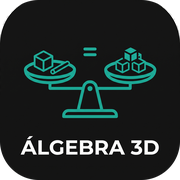
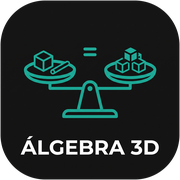
Mobile expand views, larger touch targets, link preview tags
- Expand buttons (mobile) for formula+examples, the 3D canvas, and the
  step card, with a floating Close button at the bottom center.
- Open Graph / Twitter tags and a 1200x630 preview image.
- Logo recut so its corners have no white fringe.

Changed region(s): [[0.0, 0.1389, 1.0, 1.0], [0.0278, 0.0, 0.9722, 0.1389]]

diff --git a/src/components/App.tsx b/src/components/App.tsx
@@ -34,6 +34,17 @@ const EXAMPLES: (Example & { label: string })[] = [
   { label: 'y = x²; y = 2 − x²; y = x', q: 'y = x^2; y = 2 - x^2; y = x', level: 'System' },
 ];
 
+/** Mobile only: one section takes the whole screen. */
+type Expanded = 'input' | 'stage' | 'steps' | null;
+
+function ExpandIcon() {
+  return (
+    <svg viewBox="0 0 24 24" width="16" height="16" aria-hidden="true" fill="none" stroke="currentColor" stroke-width="2.2" stroke-linecap="round" stroke-linejoin="round">
+      <path d="M15 3h6v6M9 21H3v-6M21 3l-7 7M3 21l7-7" />
+    </svg>
+  );
+}
+
 function initialQuery(): string {
   try {
     const q = new URLSearchParams(location.search).get('q');
@@ -56,6 +67,11 @@ export default function App() {
   const [favs, setFavs] = useState<Example[]>(loadFavorites);
   const [sideOpen, setSideOpen] = useState(false);
   const [guideOpen, setGuideOpen] = useState(false);
+  const [expanded, setExpanded] = useState<Expanded>(null);
+  const expand = (x: Expanded) => {
+    setSideOpen(false);
+    setExpanded(x);
+  };
   const flipFav = (ex: Example) =>
     setFavs((f) => {
       const next = toggleFav(f, ex);
@@ -105,6 +121,7 @@ export default function App() {
     setQuery(q);
     setStepIdx(0);
     setPlaying(false);
+    setExpanded((x) => (x === 'input' ? null : x));
     try {
       const url = new URL(location.href);
       url.searchParams.set('q', q);
@@ -145,8 +162,11 @@ export default function App() {
   const cam = (name: CameraPreset) => setPreset((p) => ({ name, n: p.n + 1 }));
 
   return (
-    <div class="app">
+    <div class={`app${expanded ? ` x-${expanded}` : ''}`}>
       <header class="top">
+        <button type="button" class="expand-btn top-expand" onClick={() => expand('input')} title={t.expandInput} aria-label={t.expandInput}>
+          <ExpandIcon />
+        </button>
         <div class="brand">
           <span class="logo">∑</span>
           <div>
@@ -223,6 +243,9 @@ export default function App() {
             <button title={t.sideTitle} onClick={() => cam('side')}>{t.side}</button>
             <button title={t.spin} class={autoRotate ? 'on' : ''} onClick={() => setAutoRotate((a) => !a)}>⟳</button>
             <button title={t.helpTitle} class={help ? 'on' : ''} onClick={() => setHelp((h) => !h)}>?</button>
+            <button class="expand-btn" onClick={() => expand('stage')} title={t.expandStage} aria-label={t.expandStage}>
+              <ExpandIcon />
+            </button>
           </div>
         </div>
 
@@ -266,6 +289,9 @@ export default function App() {
                 <div class="progress">
                   <div class="count">
                     {t.step} {stepIdx + 1} / {steps.length}
+                    <button class="expand-btn steps-expand" onClick={() => expand('steps')} title={t.expandSteps} aria-label={t.expandSteps}>
+                      <ExpandIcon />
+                    </button>
                   </div>
                   <div class="dots">
                     {steps.map((s, i) => (
@@ -305,6 +331,11 @@ export default function App() {
         )}
       </main>
       </div>
+      {expanded && (
+        <button type="button" class="close-expanded" onClick={() => setExpanded(null)}>
+          ✕ {t.closeExpanded}
+        </button>
+      )}
       {guideOpen && (
         <HelpModal
           lang={lang}

diff --git a/src/styles/global.css b/src/styles/global.css
@@ -322,3 +322,39 @@ kbd {
   .modal-backdrop { padding: 8px; }
   .modal { max-height: calc(100dvh - 16px); border-radius: 14px; }
 }
+
+/* ---------- mobile: expand one section to full screen ---------- */
+.expand-btn, .close-expanded { display: none; }
+@media (max-width: 720px) {
+  .top { position: relative; }
+  .expand-btn {
+    display: grid; place-items: center; padding: 0; width: 44px; height: 40px; border-radius: 12px;
+    border: 1px solid rgba(56, 189, 248, 0.55); background: var(--panel); color: var(--accent);
+  }
+  .expand-btn svg { width: 20px; height: 20px; }
+  .expand-btn:active { background: #0c4a6e; }
+  .top-expand { position: absolute; top: 10px; right: 16px; }
+  .count { display: flex; align-items: center; justify-content: center; gap: 10px; }
+  .close-expanded {
+    display: block; position: fixed; z-index: 90; left: 50%; bottom: calc(16px + env(safe-area-inset-bottom));
+    transform: translateX(-50%); padding: 12px 22px; border-radius: 999px; border: 0; font-weight: 700; font-size: 15px;
+    background: linear-gradient(135deg, #0ea5e9, #6366f1); color: white; box-shadow: 0 10px 30px rgba(0, 0, 0, 0.55);
+  }
+  .app[class*=' x-'] .expand-btn, .app[class*=' x-'] .side-toggle { display: none; }
+
+  /* Formula + examples: header on top, the examples list fills the rest. */
+  .x-input .stage-wrap { display: none; }
+  .x-input .side { position: static; transform: none; width: 100%; box-shadow: none; border-right: 0; padding-bottom: 76px; }
+
+  /* 3D canvas: nothing but the scene and its camera buttons. */
+  .x-stage .top, .x-stage .card { display: none; }
+
+  /* Steps: the card covers the whole screen. */
+  .x-steps .top, .x-steps .hud-top, .x-steps .legend, .x-steps .help { display: none; }
+  .x-steps .card {
+    inset: 0; transform: none; width: 100%; max-height: none; border-radius: 0; border: 0;
+    background: var(--panel-solid); padding: 16px 16px 84px;
+  }
+  .x-steps .card h2 { font-size: 21px; }
+  .x-steps .card p { font-size: 16px; }
+}

diff --git a/src/lib/i18n.ts b/src/lib/i18n.ts
@@ -91,6 +91,10 @@ const en = {
   mine: 'Mine',
   showExamples: 'Examples',
   helpGuide: 'Help',
+  expandInput: 'Expand formula and examples',
+  expandStage: 'Expand 3D view',
+  expandSteps: 'Expand steps',
+  closeExpanded: 'Close',
   levels: {
     Line: 'Line',
     Balance: 'Balance',
@@ -153,6 +157,10 @@ const es: typeof en = {
   mine: 'Mía',
   showExamples: 'Ejemplos',
   helpGuide: 'Ayuda',
+  expandInput: 'Ampliar fórmula y ejemplos',
+  expandStage: 'Ampliar vista 3D',
+  expandSteps: 'Ampliar pasos',
+  closeExpanded: 'Cerrar',
   levels: {
     Line: 'Recta',
     Balance: 'Balanza',

diff --git a/README.md b/README.md
@@ -42,6 +42,10 @@ git push
 
 nginx serves the fanpage.me folder as static files, so new builds show up right away. Restart it (`sudo systemctl reload nginx`) only after changing its config.
 
+### Link previews
+
+`src/pages/index.astro` sets Open Graph / Twitter tags with `public/og-image.jpg` (1200×630). Crawlers don't run JS, so links with `?q=` get different copy from nginx instead: a `map $arg_q` picks a fixed "👀 Mira esta ecuación que resolví en 3D" title/description and `sub_filter` swaps it in on `/projects/algebra-3d/`. The query is never written into the HTML. `sub_filter` matches the exact `shareTitle`/`shareText` strings, so update the nginx config if you change them.
+
 ## Layout
 
 - `src/lib/parser.ts` turns student input (`2x`, `3(x+1)`, `x²`, `−`) into an AST, then a polynomial or numeric function.
